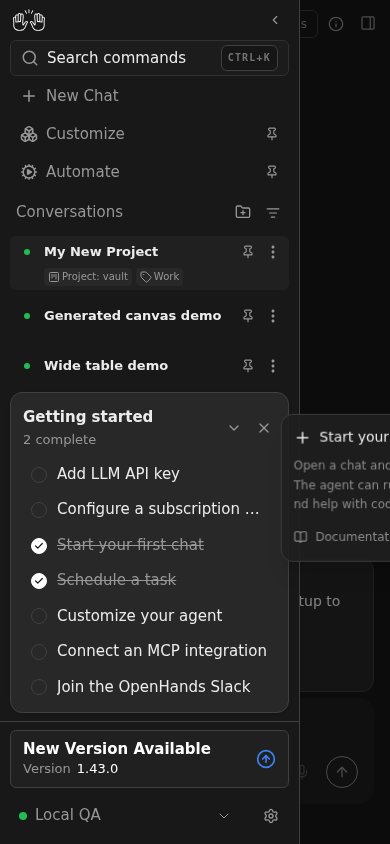
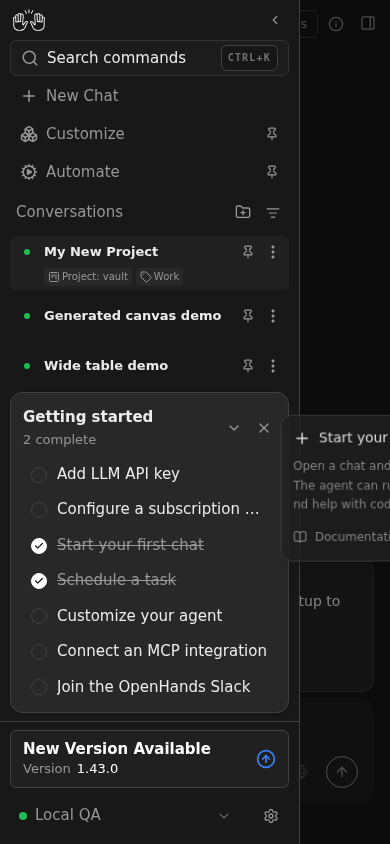
fix: keep mobile sidebar swipe clear of OS edge gestures

Changed region(s): [[0.7385, 0.4929, 1.0, 0.6469]]

diff --git a/__tests__/components/features/conversation/conversation-main.test.tsx b/__tests__/components/features/conversation/conversation-main.test.tsx
@@ -206,8 +206,16 @@ function renderConversationMain() {
   return render(conversationMainTree());
 }
 
+function setViewportWidth(width: number) {
+  Object.defineProperty(window, "innerWidth", {
+    configurable: true,
+    value: width,
+  });
+}
+
 describe("ConversationMain - Layout Transition Stability", () => {
   beforeEach(() => {
+    setViewportWidth(390);
     mockIsMobile = false;
     mockIsRightPanelShown = false;
     mockLeftWidth = 50;
@@ -299,7 +307,7 @@ describe("ConversationMain - Layout Transition Stability", () => {
 
     const chatPanel = screen.getByTestId("conversation-chat-panel");
     fireEvent.touchStart(chatPanel, {
-      touches: [{ identifier: 1, clientX: 24, clientY: 120 }],
+      touches: [{ identifier: 1, clientX: 48, clientY: 120 }],
     });
     fireEvent.touchEnd(chatPanel, {
       changedTouches: [{ identifier: 1, clientX: 160, clientY: 126 }],
@@ -335,7 +343,7 @@ describe("ConversationMain - Layout Transition Stability", () => {
     );
   });
 
-  it("only opens the mobile sidebar when the swipe starts near the left edge", () => {
+  it("opens the mobile sidebar when swiping from within the left third", () => {
     mockIsMobile = true;
     renderConversationMain();
 
@@ -345,6 +353,42 @@ describe("ConversationMain - Layout Transition Stability", () => {
     });
     fireEvent.touchEnd(chatPanel, {
       changedTouches: [{ identifier: 1, clientX: 180, clientY: 126 }],
+    });
+
+    expect(screen.getByTestId("sidebar-mobile-menu-toggle")).toHaveAttribute(
+      "aria-expanded",
+      "true",
+    );
+  });
+
+  it("does not open the mobile sidebar from the system edge gesture zone", () => {
+    mockIsMobile = true;
+    renderConversationMain();
+
+    const chatPanel = screen.getByTestId("conversation-chat-panel");
+    fireEvent.touchStart(chatPanel, {
+      touches: [{ identifier: 1, clientX: 12, clientY: 120 }],
+    });
+    fireEvent.touchEnd(chatPanel, {
+      changedTouches: [{ identifier: 1, clientX: 132, clientY: 126 }],
+    });
+
+    expect(screen.getByTestId("sidebar-mobile-menu-toggle")).toHaveAttribute(
+      "aria-expanded",
+      "false",
+    );
+  });
+
+  it("does not open the mobile sidebar when swiping beyond the left third", () => {
+    mockIsMobile = true;
+    renderConversationMain();
+
+    const chatPanel = screen.getByTestId("conversation-chat-panel");
+    fireEvent.touchStart(chatPanel, {
+      touches: [{ identifier: 1, clientX: 150, clientY: 120 }],
+    });
+    fireEvent.touchEnd(chatPanel, {
+      changedTouches: [{ identifier: 1, clientX: 250, clientY: 126 }],
     });
 
     expect(screen.getByTestId("sidebar-mobile-menu-toggle")).toHaveAttribute(

diff --git a/src/components/features/conversation/conversation-main/conversation-main.tsx b/src/components/features/conversation/conversation-main/conversation-main.tsx
@@ -69,7 +69,7 @@ const MOBILE_AUTOMATION_VIEW_OPTIONS: {
   },
 ];
 
-const MOBILE_SIDEBAR_SWIPE_START_MAX_PX = 32;
+const MOBILE_SIDEBAR_SWIPE_START_MIN_PX = 24;
 const MOBILE_SIDEBAR_SWIPE_THRESHOLD_PX = 80;
 
 function AutomationSetupDockedComposer({
@@ -213,7 +213,8 @@ export function ConversationMain({ children }: { children?: ReactNode } = {}) {
 
     const touch = event.touches[0];
     mobileSidebarSwipeStart.current =
-      touch.clientX <= MOBILE_SIDEBAR_SWIPE_START_MAX_PX
+      touch.clientX >= MOBILE_SIDEBAR_SWIPE_START_MIN_PX &&
+      touch.clientX <= window.innerWidth / 3
         ? { x: touch.clientX, y: touch.clientY }
         : null;
   };

diff --git a/tests/e2e/mobile-conversation-navigation.spec.ts b/tests/e2e/mobile-conversation-navigation.spec.ts
@@ -94,7 +94,7 @@ test("swiping right from the chat edge opens the mobile sidebar", async ({
       );
     };
 
-    dispatchTouch("touchstart", 24);
+    dispatchTouch("touchstart", 48);
     dispatchTouch("touchend", 160);
   });
 
